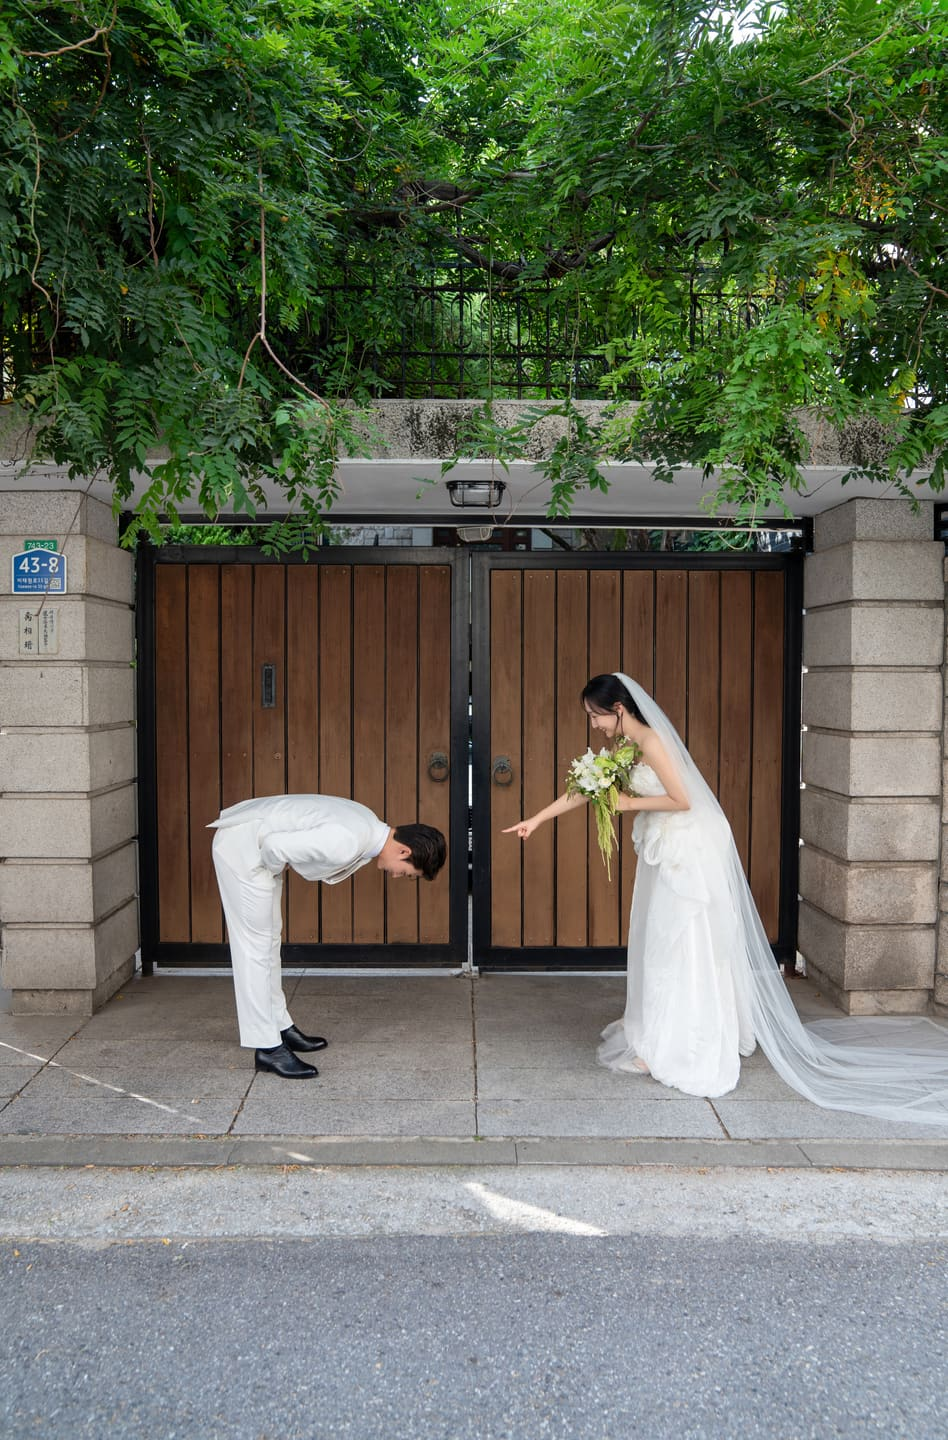
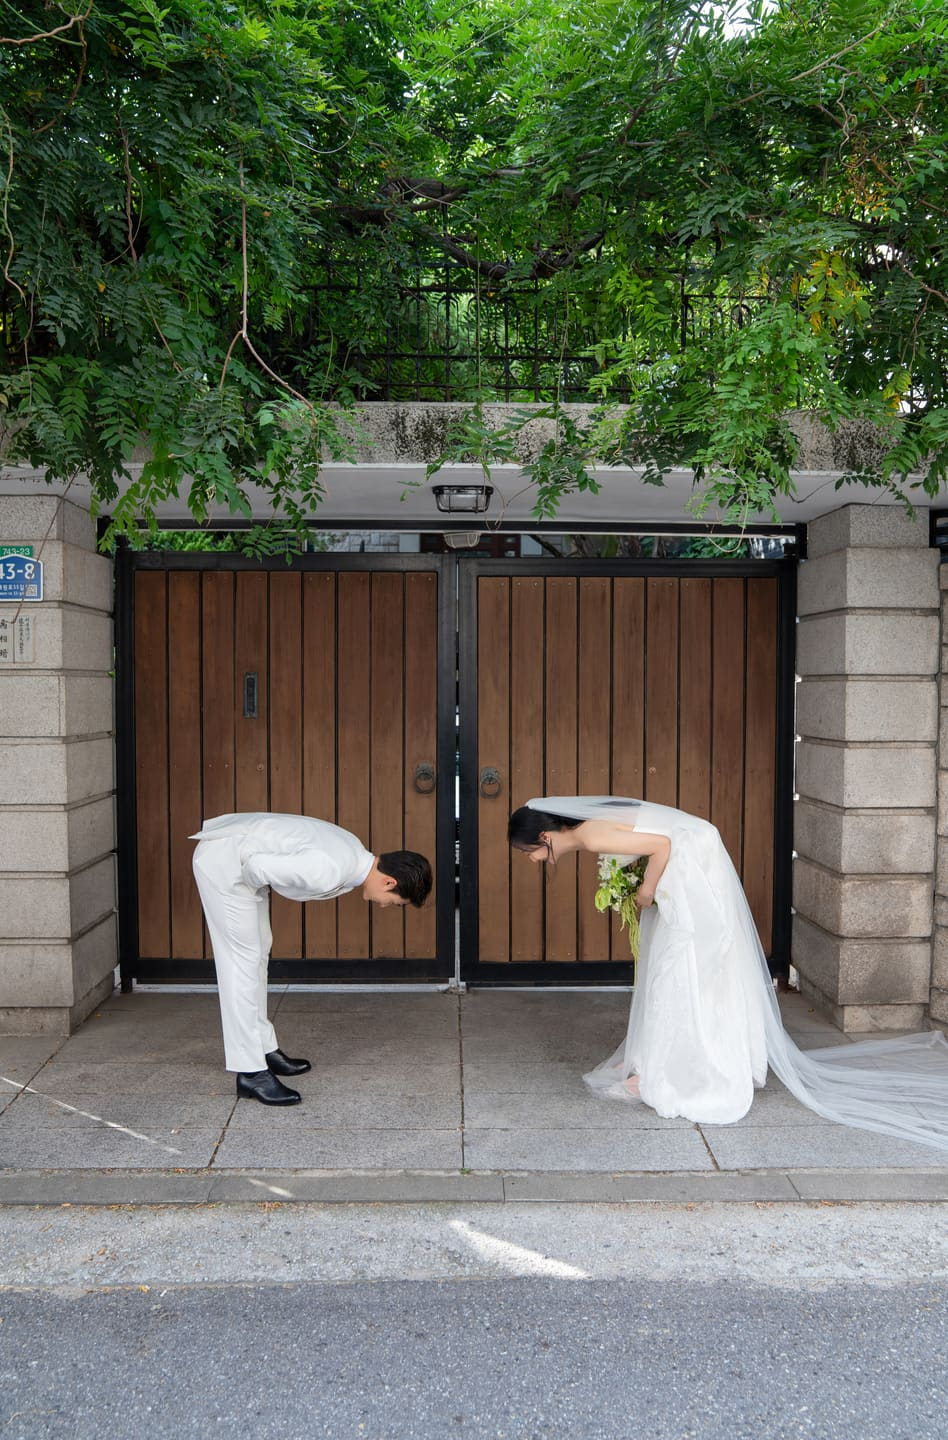
갤러리: 3번 대문 인사 컷을 DSC01548(둘 다 인사)로 교체

diff --git a/index.html b/index.html
@@ -164,7 +164,7 @@
       <div class="gallery" id="gallery">
         <button type="button" class="gallery-item"><img src="./assets/img/gallery-01.jpg?v=d85b81ba" alt="웨딩 사진 1" loading="lazy" decoding="async"></button>
         <button type="button" class="gallery-item"><img src="./assets/img/gallery-02.jpg?v=07ebc38e" alt="웨딩 사진 2" loading="lazy" decoding="async"></button>
-        <button type="button" class="gallery-item"><img src="./assets/img/gallery-03.jpg?v=9ac5732d" alt="웨딩 사진 3" loading="lazy" decoding="async"></button>
+        <button type="button" class="gallery-item"><img src="./assets/img/gallery-03.jpg?v=2dab2063" alt="웨딩 사진 3" loading="lazy" decoding="async"></button>
         <button type="button" class="gallery-item"><img src="./assets/img/gallery-04.jpg?v=7e9c241f" alt="웨딩 사진 4" loading="lazy" decoding="async"></button>
         <button type="button" class="gallery-item"><img src="./assets/img/gallery-05.jpg?v=70f95dd2" alt="웨딩 사진 5" loading="lazy" decoding="async"></button>
         <button type="button" class="gallery-item"><img src="./assets/img/gallery-06.jpg?v=07481be6" alt="웨딩 사진 6" loading="lazy" decoding="async"></button>
